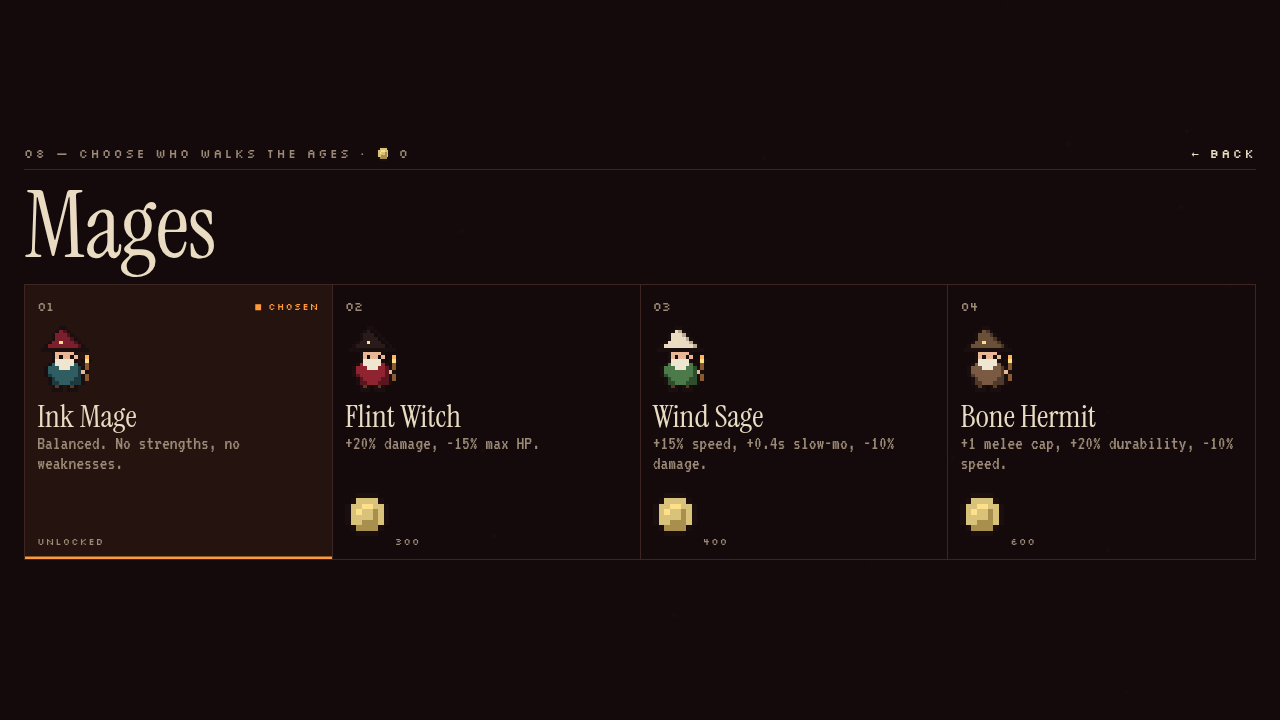
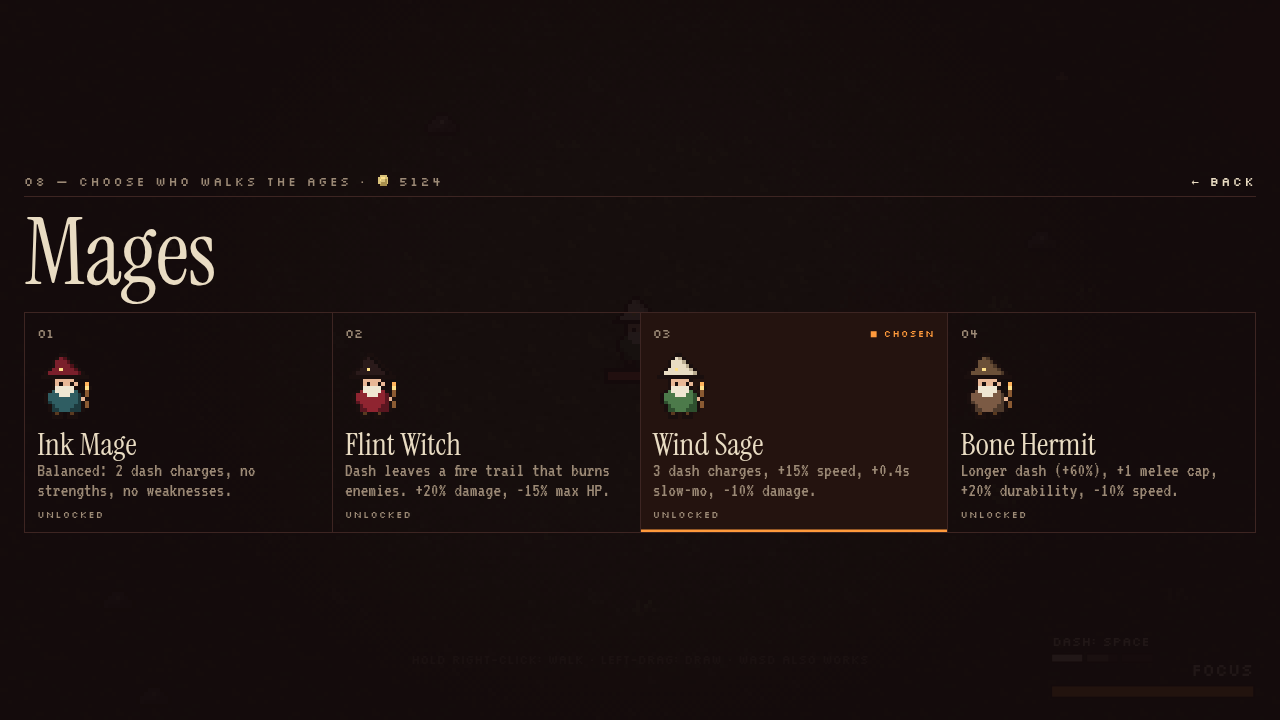
feat(dash-charges): 2 dash charges recharging one at a time with HUD pips; Wind Sage 3 charges, Bone Hermit longer dash, Flint Witch fire trail; perk text updated

diff --git a/game.js b/game.js
@@ -353,7 +353,7 @@ function step(dt,realDt){
   if(save.autoMove&&!mx&&!my&&!stick.active){const v=kiteVector(p);mx=v.x;my=v.y}
   const m=Math.hypot(mx,my);if(m>1){mx/=m;my/=m}
   if(p.dashT>0){p.dashT-=dt;mx=p.dashX;my=p.dashY;p.invul=Math.max(p.invul,.05);if(Math.random()<.8)G.fx.push({x:p.x+rnd(-6,6),y:p.y-rnd(0,14),vx:-mx*40,vy:-my*40,life:.3,max:.3,col:'#ff9a3c',r:2})}
-  p.dashCd=Math.max(0,(p.dashCd||0)-dt);
+  {const mx_=p.dashMax||2;if(p.dashCharges==null)p.dashCharges=mx_;if(p.dashCharges<mx_){p.dashCd=(p.dashCd||0)-dt;if(p.dashCd<=0){p.dashCharges++;p.dashCd=p.dashCharges<mx_?DASH.cd*(p.dashCdMul||1):0}}else p.dashCd=0}
   const spd=p.dashT>0?p.speed*DASH.mult:p.speed;
   p.x+=mx*spd*dt;p.y+=my*spd*dt;if(m>0.1)p.face=Math.atan2(my,mx);p.moving=m>0.1;
   updateSpawns(dt);updateEnemies(dt);if(G.dead){updateHud();endRun();return}if(mode!=='run')return;updateCreations(dt);updateShots(dt);updateOrbs(dt);if(window.updatePickups)updatePickups(dt);if(!G||mode!=='run')return;updateFx(dt);if(G.dead){endRun();return}
@@ -370,9 +370,9 @@ function kiteVector(p){
 }
 // ---- dash: Space / double-tap the move side. Short burst, brief invulnerability ----
 const DASH={mult:4.2,time:.17,cd:2.4};
-function tryDash(){if(!G||G.paused)return;const p=G.player;if(p.dashCd>0||p.dashT>0)return;
+function tryDash(){if(!G||G.paused)return;const p=G.player;if(p.dashCharges==null)p.dashCharges=p.dashMax||2;if(p.dashCharges<=0||p.dashT>0)return;
   let dx=Math.cos(p.face),dy=Math.sin(p.face);if(stick.active){const sx=stick.x-stick.ox,sy=stick.y-stick.oy,d=Math.hypot(sx,sy);if(d>6){dx=sx/d;dy=sy/d}}
-  p.dashX=dx;p.dashY=dy;p.dashT=DASH.time;p.dashCd=DASH.cd*(p.dashCdMul||1);sfx('dash');haptic(12);G.shake=Math.max(G.shake,2)}
+  p.dashX=dx;p.dashY=dy;p.dashT=DASH.time*(p.dashTimeMul||1);if(p.dashCharges===(p.dashMax||2)||p.dashCd<=0)p.dashCd=DASH.cd*(p.dashCdMul||1);p.dashCharges--;sfx('dash');haptic(12);G.shake=Math.max(G.shake,2)}
 function haptic(ms){if(typeof save!=='undefined'&&save.haptics===false)return;try{navigator.vibrate&&navigator.vibrate(ms)}catch(e){}}
 function calcCoins(){let c=10+G.t*0.25+G.kills*0.08+(G.bonus||0);c*=G.player.coinMul;if(G.dbl)c*=2;return Math.floor(c)}
 
@@ -444,7 +444,10 @@ function render(dt){
   const k=HUDK,fw=Math.round(120*k),fx=W-fw-16*k,fy=H-20*k;
   ctx.fillStyle='#1a0f0e';ctx.fillRect(fx-2,fy-2,fw+4,6*k+4);ctx.fillStyle='#3a2622';ctx.fillRect(fx,fy,fw,6*k);ctx.fillStyle='#ff9a3c';ctx.fillRect(fx,fy,Math.round(fw*clamp(G.focusLeft/G.player.focus,0,1)),6*k);
   ctx.font=Math.round(10*k)+'px Silkscreen, monospace';ctx.textAlign='right';ctx.fillStyle=G.castCd>0?'#e0504e':'#e9dcc3';ctx.fillText(G.castCd>0?'RECHARGING':'FOCUS',W-16*k,fy-6*k);
-  {const k=HUDK,cdF=G.player.dashCd?1-G.player.dashCd/DASH.cd:1;ctx.fillStyle='#1a0f0e';ctx.fillRect(fx-2,fy-20*k,fw*.5+4,6*k);ctx.fillStyle=cdF>=1?'#e9dcc3':'#5a4a40';ctx.fillRect(fx,fy-19*k,Math.round(fw*.5*cdF),4*k);ctx.font=Math.round(8*k)+'px Silkscreen, monospace';ctx.textAlign='left';ctx.fillText(isTouch?'DASH: DOUBLE-TAP':'DASH: SPACE',fx,fy-24*k)}
+  {const k=HUDK,P_=G.player,mx_=P_.dashMax||2,ch=P_.dashCharges==null?mx_:P_.dashCharges,cdF=ch<mx_?1-Math.max(0,P_.dashCd)/(DASH.cd*(P_.dashCdMul||1)):0,gap=3*k,pw=Math.floor((fw*.5-gap*(mx_-1))/mx_);
+   for(let i=0;i<mx_;i++){const x0=fx+i*(pw+gap);ctx.fillStyle='#1a0f0e';ctx.fillRect(x0-1,fy-20*k,pw+2,6*k);ctx.fillStyle='#3a2e28';ctx.fillRect(x0,fy-19*k,pw,4*k);
+     if(i<ch){ctx.fillStyle='#e9dcc3';ctx.fillRect(x0,fy-19*k,pw,4*k)}else if(i===ch){ctx.fillStyle='#7a6656';ctx.fillRect(x0,fy-19*k,Math.round(pw*cdF),4*k)}}
+   ctx.fillStyle='#e9dcc3';ctx.font=Math.round(8*k)+'px Silkscreen, monospace';ctx.textAlign='left';ctx.fillText(isTouch?'DASH: DOUBLE-TAP':'DASH: SPACE',fx,fy-24*k)}
   if(stick.active){ctx.strokeStyle='#e9dcc355';ctx.lineWidth=2;ctx.beginPath();ctx.arc(stick.ox,stick.oy,55,0,6.283);ctx.stroke();const dx=stick.x-stick.ox,dy=stick.y-stick.oy,d=Math.min(55,Math.hypot(dx,dy)),a=Math.atan2(dy,dx);ctx.fillStyle='#e9dcc388';ctx.beginPath();ctx.arc(stick.ox+Math.cos(a)*d,stick.oy+Math.sin(a)*d,22,0,6.283);ctx.fill()}
   else if(G.t<8){ctx.fillStyle='#e9dcc377';ctx.font='12px Silkscreen, monospace';ctx.textAlign='center';if(isTouch){ctx.fillText('< MOVE',W*.25,H-56);ctx.fillText('DRAW >',W*.75,H-56);ctx.fillStyle='#e9dcc322';ctx.fillRect(W/2-1,H*.3,2,H*.5)}else ctx.fillText(controlsHint().toUpperCase(),W/2,H-56)}
 }

diff --git a/progression.js b/progression.js
@@ -46,10 +46,10 @@ hub('upgrades','Upgrades',upgrades);
 // ================= MAGE SELECT =================
 if(!save.mages)save.mages=['ink'];if(!save.mage)save.mage='ink';
 const MAGES={
-  ink:   {name:'Ink Mage',   cost:0,   pal:{},                                              perk:'Balanced. No strengths, no weaknesses.', apply:G=>{}},
-  flint: {name:'Flint Witch',cost:300, pal:{h:'#2a1a1a',H:'#140c0c',r:'#8f2430',R:'#5a1620'}, perk:'+20% damage, -15% max HP.',             apply:G=>{G.player.dmgMul*=1.2;G.player.maxHp*=.85;G.player.hp=G.player.maxHp}},
-  wind:  {name:'Wind Sage',  cost:400, pal:{h:'#e9dcc3',H:'#b9ab90',r:'#4c7a4a',R:'#2e4f2e'}, perk:'+15% speed, +0.4s slow-mo, -10% damage.', apply:G=>{G.player.speed*=1.15;G.player.focus+=.4;G.focusLeft=G.player.focus;G.player.dmgMul*=.9}},
-  hermit:{name:'Bone Hermit',cost:600, pal:{h:'#6b5038',H:'#4a3626',r:'#7b5a44',R:'#4f3a2c',w:'#efe6d2'},perk:'+1 melee cap, +20% durability, -10% speed.',apply:G=>{G.player.caps.melee+=1;G.player.durMul*=1.2;G.player.speed*=.9}},
+  ink:   {name:'Ink Mage',   cost:0,   pal:{},                                              perk:'Balanced: 2 dash charges, no strengths, no weaknesses.', apply:G=>{}},
+  flint: {name:'Flint Witch',cost:300, pal:{h:'#2a1a1a',H:'#140c0c',r:'#8f2430',R:'#5a1620'}, perk:'Dash leaves a fire trail that burns enemies. +20% damage, -15% max HP.', apply:G=>{G.player.fireDash=true;G.player.dmgMul*=1.2;G.player.maxHp*=.85;G.player.hp=G.player.maxHp}},
+  wind:  {name:'Wind Sage',  cost:400, pal:{h:'#e9dcc3',H:'#b9ab90',r:'#4c7a4a',R:'#2e4f2e'}, perk:'3 dash charges, +15% speed, +0.4s slow-mo, -10% damage.', apply:G=>{G.player.dashMax=3;G.player.dashCharges=3;G.player.speed*=1.15;G.player.focus+=.4;G.focusLeft=G.player.focus;G.player.dmgMul*=.9}},
+  hermit:{name:'Bone Hermit',cost:600, pal:{h:'#6b5038',H:'#4a3626',r:'#7b5a44',R:'#4f3a2c',w:'#efe6d2'},perk:'Longer dash (+60%), +1 melee cap, +20% durability, -10% speed.',apply:G=>{G.player.dashTimeMul=1.6;G.player.caps.melee+=1;G.player.durMul*=1.2;G.player.speed*=.9}},
 };
 const MAGE_SPR={};
 function mageFrames(id){if(MAGE_SPR[id])return MAGE_SPR[id];const pal={...PAL,...MAGES[id].pal};return MAGE_SPR[id]=[0,1,0,2].map(i=>set(grid([...MAGE_TOP,...LEGS[i]],pal)))}
@@ -311,5 +311,15 @@ function drawLootTop(){if(!G)return;const t=G.t,pulse=.5+.5*Math.sin(t*5);
     bx.globalAlpha=1;const hs=hiSpr('prop_'+k.type,SPR.prop[k.type],k.type==='torch'?'#ffcf7a':'#e8dcb8');bx.drawImage(hs,sx-(hs.width>>1),sy-hs.height+(k.cd>0?-1:0))}
   bx.globalAlpha=1;
 }
+
+
+// ================= DASH FIRE TRAIL (Flint Witch) =================
+const _updF=updatePickups;updatePickups=function(dt){_updF(dt);if(mode!=='run'||!G)return;const p=G.player;if(!G.fire)G.fire=[];
+  if(p.fireDash&&p.dashT>0){const l=G.fire[G.fire.length-1];if(!l||Math.hypot(l.x-p.x,l.y-p.y)>10)G.fire.push({x:p.x,y:p.y,life:1.4,tick:0})}
+  for(let i=G.fire.length-1;i>=0;i--){const f=G.fire[i];f.life-=dt;f.tick-=dt;if(f.life<=0){G.fire.splice(i,1);continue}
+    if(f.tick<=0){f.tick=.25;for(const e of queryGrid(f.x,f.y,22))if(e.hp>0&&Math.hypot(e.x-f.x,e.y-f.y)<22)hurtEnemy(e,5*p.dmgMul)}
+    if(Math.random()<.15)G.fx.push({x:f.x+rnd(-6,6),y:f.y-rnd(0,8),vx:0,vy:-30,life:.35,max:.35,col:Math.random()<.5?'#ffb13a':'#ff6a2a',r:1.5})}};
+const _rndF=renderPickups;renderPickups=function(){if(G.fire)for(const f of G.fire){const sx=X(f.x),sy=Y(f.y),a=Math.min(1,f.life/.6);const fl=Math.floor(G.t*12+f.x)&1;
+  bx.globalAlpha=.55*a;bx.fillStyle='#ff6a2a';bx.fillRect(sx-4,sy-2,8,3);bx.fillStyle=fl?'#ffd34a':'#ffb13a';bx.fillRect(sx-2,sy-3-fl,4,2);bx.globalAlpha=1}_rndF()};
 
 boot();
